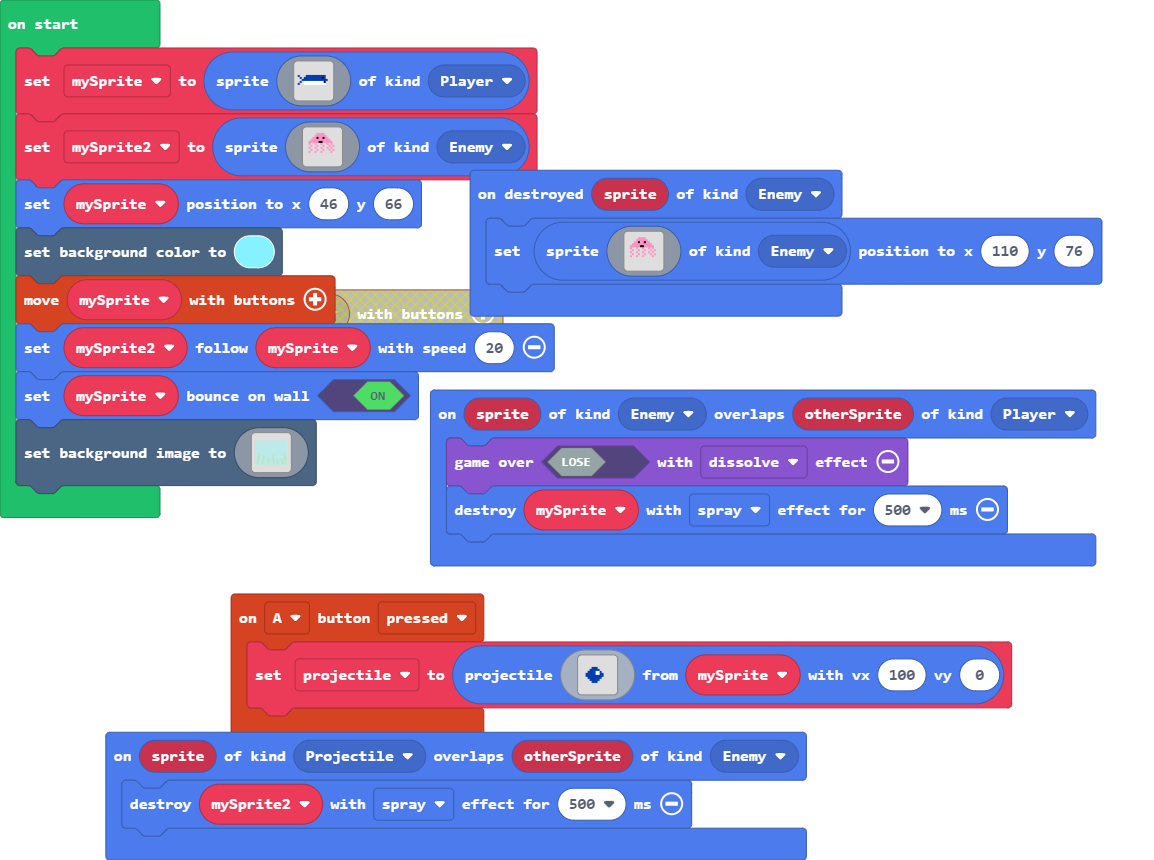
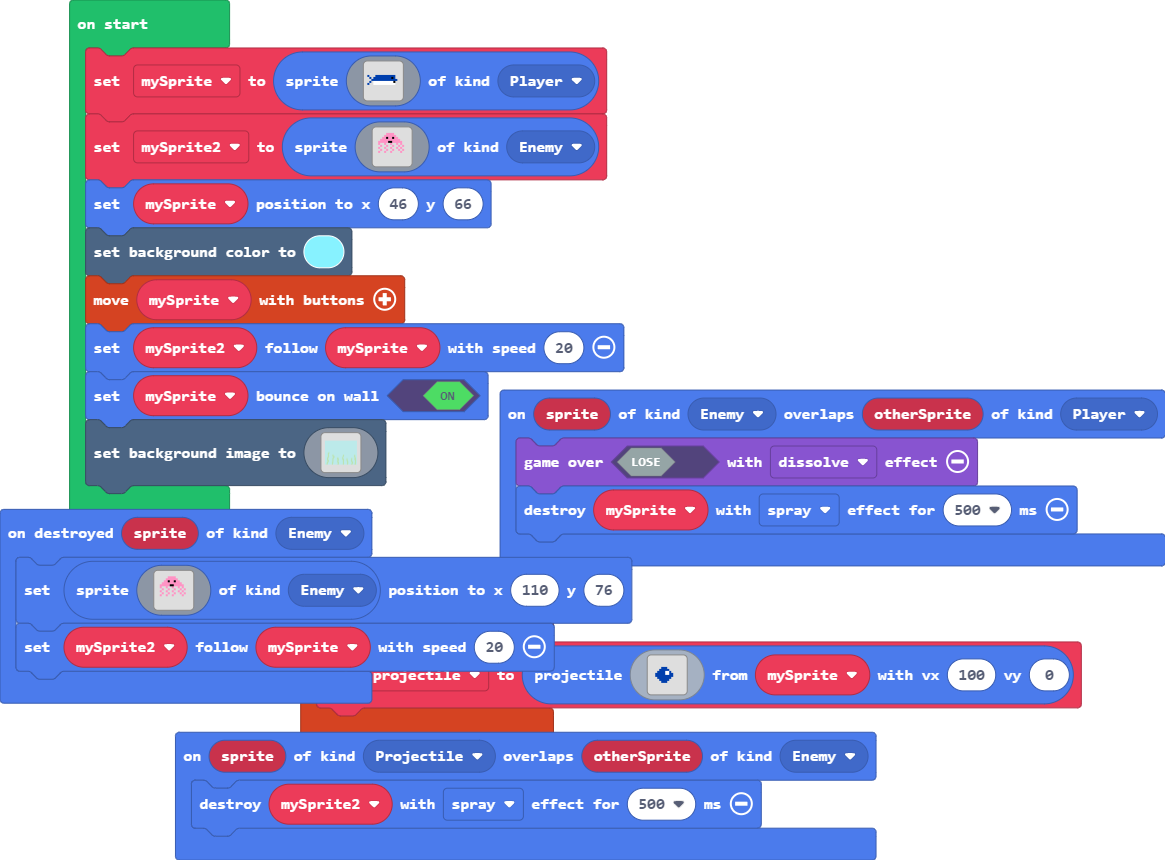
Update main.blocks, main.ts, images.g.jres, images.g.ts

diff --git a/images.g.ts b/images.g.ts
@@ -215,6 +215,60 @@ namespace myImages {
 . . . . . . . . . . . . . . . . 
 . . . . . . . . . . . . . . . . 
 `;
+            case "image7":return img`
+. . . . . . . . . . . . . . . . 
+. . . . . 3 3 3 3 . . . . . . . 
+. . . . 3 3 3 3 3 3 . . . . . . 
+. . . 3 3 f 3 3 f 3 3 . . . . . 
+. . 3 3 3 3 3 3 3 3 3 3 . . . . 
+. 3 3 3 3 3 f f 3 3 3 3 3 . . . 
+. 3 . . 3 . . 3 . . 3 . 3 . . . 
+. . 3 . . 3 . . 3 . . 3 . 3 . . 
+. 3 . . 3 . . 3 . . 3 . 3 . . . 
+. . 3 . . 3 . . 3 . . 3 . 3 . . 
+. 3 . . 3 . . 3 . . . . 3 . . . 
+. . . . . . . . . . . . . . . . 
+. . . . . . . . . . . . . . . . 
+. . . . . . . . . . . . . . . . 
+. . . . . . . . . . . . . . . . 
+. . . . . . . . . . . . . . . . 
+`;
+            case "image8":return img`
+. . . . . . . . . . . . . . . . 
+. . . . . 3 3 3 3 . . . . . . . 
+. . . . 3 3 3 3 3 3 . . . . . . 
+. . . 3 3 f 3 3 f 3 3 . . . . . 
+. . 3 3 3 3 3 3 3 3 3 3 . . . . 
+. 3 3 3 3 3 f f 3 3 3 3 3 . . . 
+. 3 . . 3 . . 3 . . 3 . 3 . . . 
+. . 3 . . 3 . . 3 . . 3 . 3 . . 
+. 3 . . 3 . . 3 . . 3 . 3 . . . 
+. . 3 . . 3 . . 3 . . 3 . 3 . . 
+. 3 . . 3 . . 3 . . . . 3 . . . 
+. . . . . . . . . . . . . . . . 
+. . . . . . . . . . . . . . . . 
+. . . . . . . . . . . . . . . . 
+. . . . . . . . . . . . . . . . 
+. . . . . . . . . . . . . . . . 
+`;
+            case "image9":return img`
+. . . . . . . . . . . . . . . . 
+. . . . . 3 3 3 3 . . . . . . . 
+. . . . 3 3 3 3 3 3 . . . . . . 
+. . . 3 3 f 3 3 f 3 3 . . . . . 
+. . 3 3 3 3 3 3 3 3 3 3 . . . . 
+. 3 3 3 3 3 f f 3 3 3 3 3 . . . 
+. 3 . . 3 . . 3 . . 3 . 3 . . . 
+. . 3 . . 3 . . 3 . . 3 . 3 . . 
+. 3 . . 3 . . 3 . . 3 . 3 . . . 
+. . 3 . . 3 . . 3 . . 3 . 3 . . 
+. 3 . . 3 . . 3 . . . . 3 . . . 
+. . . . . . . . . . . . . . . . 
+. . . . . . . . . . . . . . . . 
+. . . . . . . . . . . . . . . . 
+. . . . . . . . . . . . . . . . 
+. . . . . . . . . . . . . . . . 
+`;
         }
         return null;
     })

diff --git a/main.ts b/main.ts
@@ -41,6 +41,7 @@ sprites.onDestroyed(SpriteKind.Enemy, function (sprite) {
         . . . . . . . . . . . . . . . . 
         . . . . . . . . . . . . . . . . 
         `, SpriteKind.Enemy).setPosition(110, 76)
+    mySprite2.follow(mySprite, 20)
 })
 sprites.onOverlap(SpriteKind.Projectile, SpriteKind.Enemy, function (sprite, otherSprite) {
     mySprite2.destroy(effects.spray, 500)
